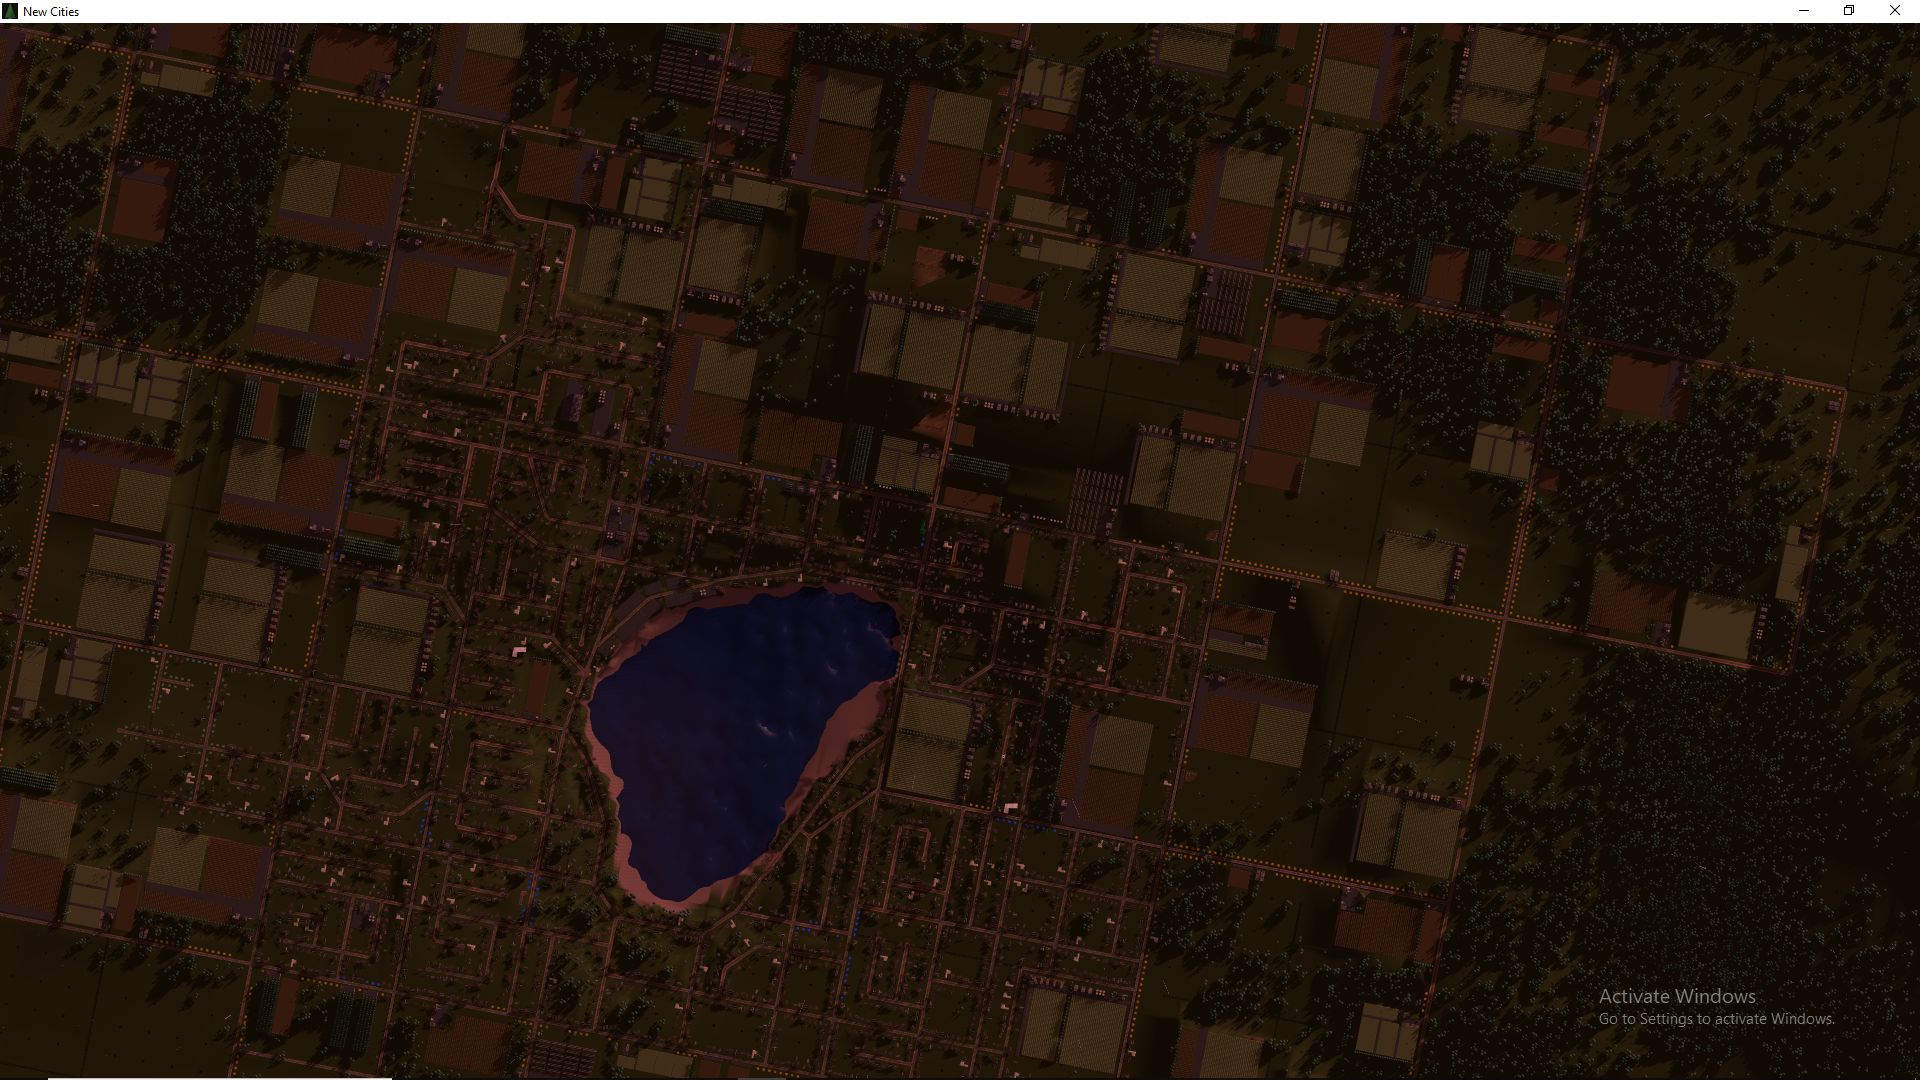
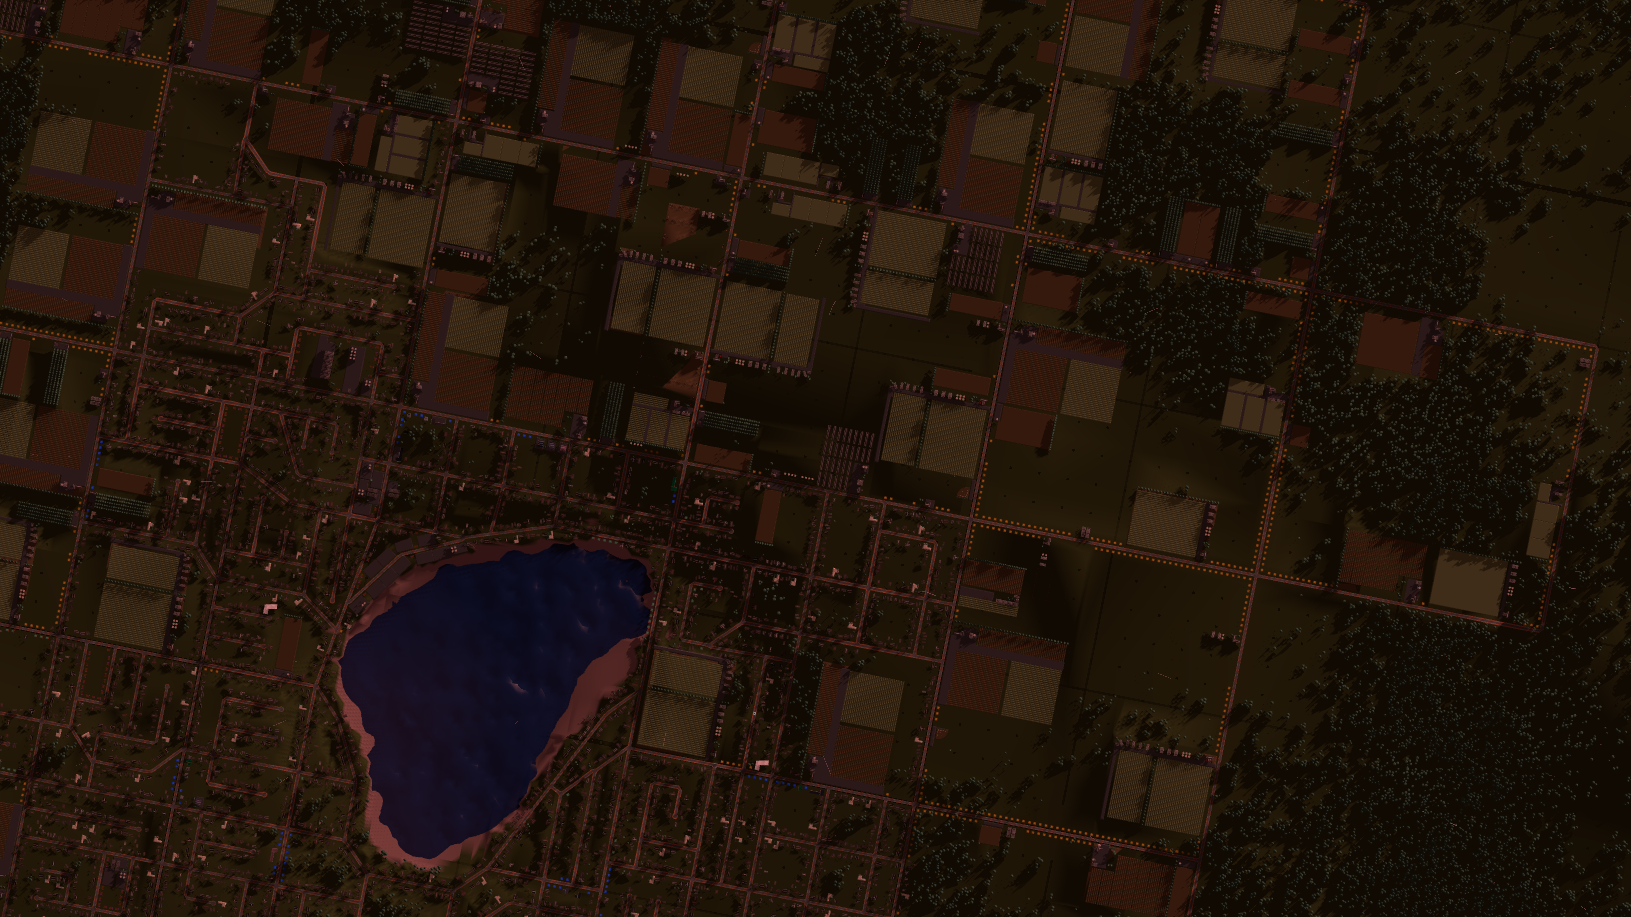
Pushing FF 23 and final imgs
FF 23 text, added transit images for Lone Pine's section, cropped dusk(utrain).png image

Changed region(s): [[0.0, 0.0, 1.0, 1.0], [0.8277, 0.916, 0.9503, 0.9771], [0.8584, 0.1832, 0.889, 0.2137]]

diff --git a/_posts/2020-03-06-mayors-creators.md b/_posts/2020-03-06-mayors-creators.md
@@ -1,0 +1,104 @@
+---
+layout: post
+title:  "Friday Facts #23: Mayors & Creators"
+date:   2020-03-06 00:00:00 -0700
+author: Lone Pine
+#categories: new-cities friday-facts
+redirect_from:
+  - /blog/2020/03/06/mayors_creators.html
+
+image: /assets/images/console_import.png
+description: Building something New
+
+---
+
+Hey folks, it’s supersoup again! This week we’d like to shine the spotlight on the Mayors & Creators in our community. It never gets old seeing the cities you sculpt from the formless clay, and it especially warms my heart to see the custom textures and buildings you’re importing. As we draw nearer to Early Access the modding support will only continue to grow. I’m as eager as an Amazon delivery driver to see what new and innovative things you build! 
+
+We’ll get to some fun highlights in a moment. But now it’s time for a word from Lone Pine on Mass Transit. 
+
+***
+
+{% include video.html class="caption-bottom"
+  video="transit-in-action" image="/assets/images/transit-in-action.png"
+  prefix="https://newcities-videos.s3.amazonaws.com/"
+%}
+
+Over the weekend, we will release version 51. Version 51 will introduce buses (for real this time). You will be able to place bus lines, set headways, set prices, and watch it go. Future transit options will be faster than buses, but logically a bus trip can never be faster than a car trip taking the same roads. Therefore, commuters will estimate the cost of fuel to drive to their destination and compare that to how much they value their time. If the money saved is worth it, they’ll go by bus.
+
+This version is very rough. The graphics are preliminary and you will certainly encounter some bugs. However, I have completed the most difficult part of mass transit, and we are over the hump. I’m so excited to implement the planned design-your-own-transit-system framework when I get back from vacation. For now, we want to get this out to you so you can test it and give us feedback. I think you will enjoy it!
+
+{% include video.html class="caption-bottom"
+  video="transit-planning-short" image="/assets/images/transit-planning.png"
+  prefix="https://newcities-videos.s3.amazonaws.com/"
+%}
+
+***
+
+One of the beautiful aspects of game development is the satisfaction of building tools to facilitate creativity. It starts with tools suited to making development faster and easier, but inevitably, those tools gain a second life if (and in our case, when) they’re released to the community. Then they become part of a broader modding suite that supports the creativity of others. 
+
+In the immortal words of Bob Ross, “You can do anything you want. This is your world.” And on the canvas of New Cities, you have the opportunity to create something New. Let’s take a look at some of your paintings thus far.
+
+
+{% include image.html class="caption-bottom"
+  url="/assets/images/community/designer(Baron_Von_Foggy_Bottom).png"
+  description="The Building Designer, by Baron Von Foggy Bottom"
+%}
+
+It's great to see folks diverisfying their cities with the Building Designer. We know the initial rollout has been shaky, but we're already seeing screenshots of custom buildings out in the wild, and we're so happy you're finding value in the tool. Sometimes literally when you boost the building's land value effect.
+
+{% include image.html class="caption-bottom"
+  url="/assets/images/community/evil_corp(Im-Just-Noel).jpg"
+  description="Evil Corp, by Im-Just-Noel"
+%}
+
+In a world of endless possibility, some just want to rule with an iron fist. More power to you! Just try not to be *too* evil. 
+
+{% include image.html class="caption-bottom"
+  url="/assets/images/community/sunrise_over_my_first_skyscraper(omron).png"
+  description="Sunrise Over My First Skyscraper, by Omron"
+%}
+
+There's something magical about cities at dusk and dawn. The twilight hours, where the windows glitter with the rose and gold rays of the sleeping sun, while homes and even skyscrapers glow with the cheery light of habitation. 
+
+{% include image.html class="caption-bottom"
+  url="/assets/images/community/zoning(dwwojcik).png"
+  description="Zoning, by dwwojcik"
+%}
+
+Even the simple arrangements of roads and zones can be beautiful. Like decluttering a desk. 
+
+{% include image.html class="caption-bottom"
+  url="/assets/images/community/dusk(utrain).png"
+  description="Dusk, by utrain"
+%}
+
+I could wax poetic again, but I think we all know how I (supersoup) feel about these sorts of screenshots at this point. It's sunset. The world falls asleep while dreamers wake to greet the night. 
+
+{% include image.html class="caption-bottom"
+  url="/assets/images/community/metropolis(jabatasu).png"
+  description="Metropolis, by jabatasu"
+%}
+
+&#9834; There's no stopping this. I left my heart in Metropolis. &#9835;
+
+{% include image.html class="caption-bottom"
+  url="/assets/images/community/rush_hour(Im-Just-Noel).png"
+  description="Rush Hour, by jabatasu"
+%}
+
+All the folks heading home from work for the evening. Time to wrap up this Friday Facts as well. Keep posting your screenshots to #share on our Discord, and you might show up in a future post!
+
+
+Questions? Comments? Feedback on the game? Sound off on our [Discord]{:target="_blank"}.
+
+As always, we’re incredibly thankful for our great community across the web. We love seeing the hard work and attention to detail you pour into your cities, and it inspires us every day to keep building. Thank you again for your support!
+
+If you want to play the game and haven’t contributed yet, head over to our [IndieGoGo page]{:target="_blank"}. We're also on [Reddit]{:target="_blank"} and [Twitter]{:target="_blank"}. Give us a follow if you haven’t, and we’ll keep you up to date on what’s new with New Cities!
+
+[Discord]:  http://discord.gg/cz6t4J5
+[IndieGoGo page]: https://igg.me/at/new-cities
+[Reddit]: https://www.reddit.com/r/New_Cities
+[Twitter]: https://twitter.com/lone_pine_games
+
+
+
